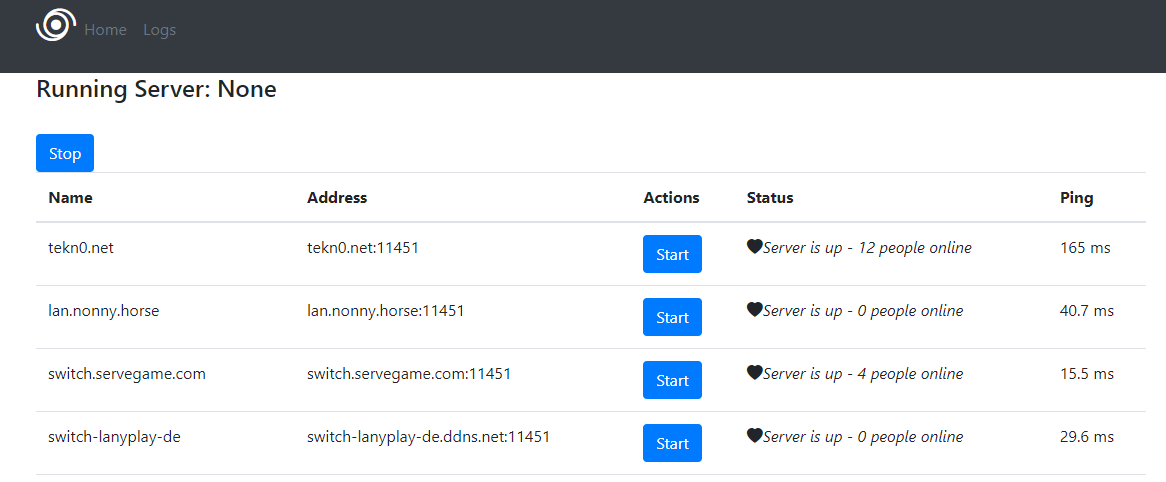
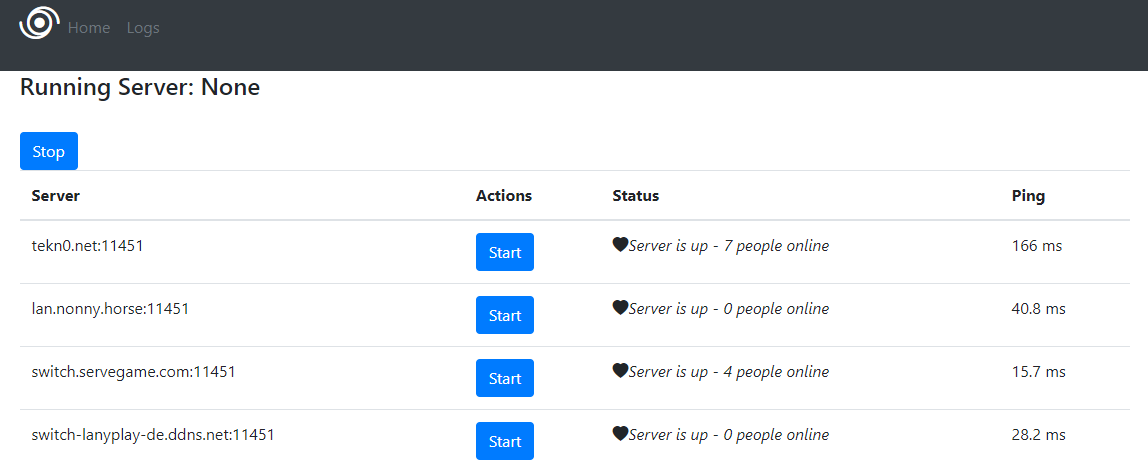
UI optimization

diff --git a/templates/index.html b/templates/index.html
@@ -8,8 +8,7 @@
 <table class="table">
   <thead>
     <tr>
-      <th scope="col">Name</th>
-      <th scope="col">Address</th>
+      <th scope="col">Server</th>
       <th scope="col">Actions</th>
       <th scope="col">Status</th>
       <th scope="col">Ping</th>
@@ -18,7 +17,6 @@
   <tbody>
     {% for server in servers %}
     <tr>
-      <td>{{ server[0] }}</td>
       <td>{{ server[1] }}</td>
       <td>
         <form action="/run" method="post">
